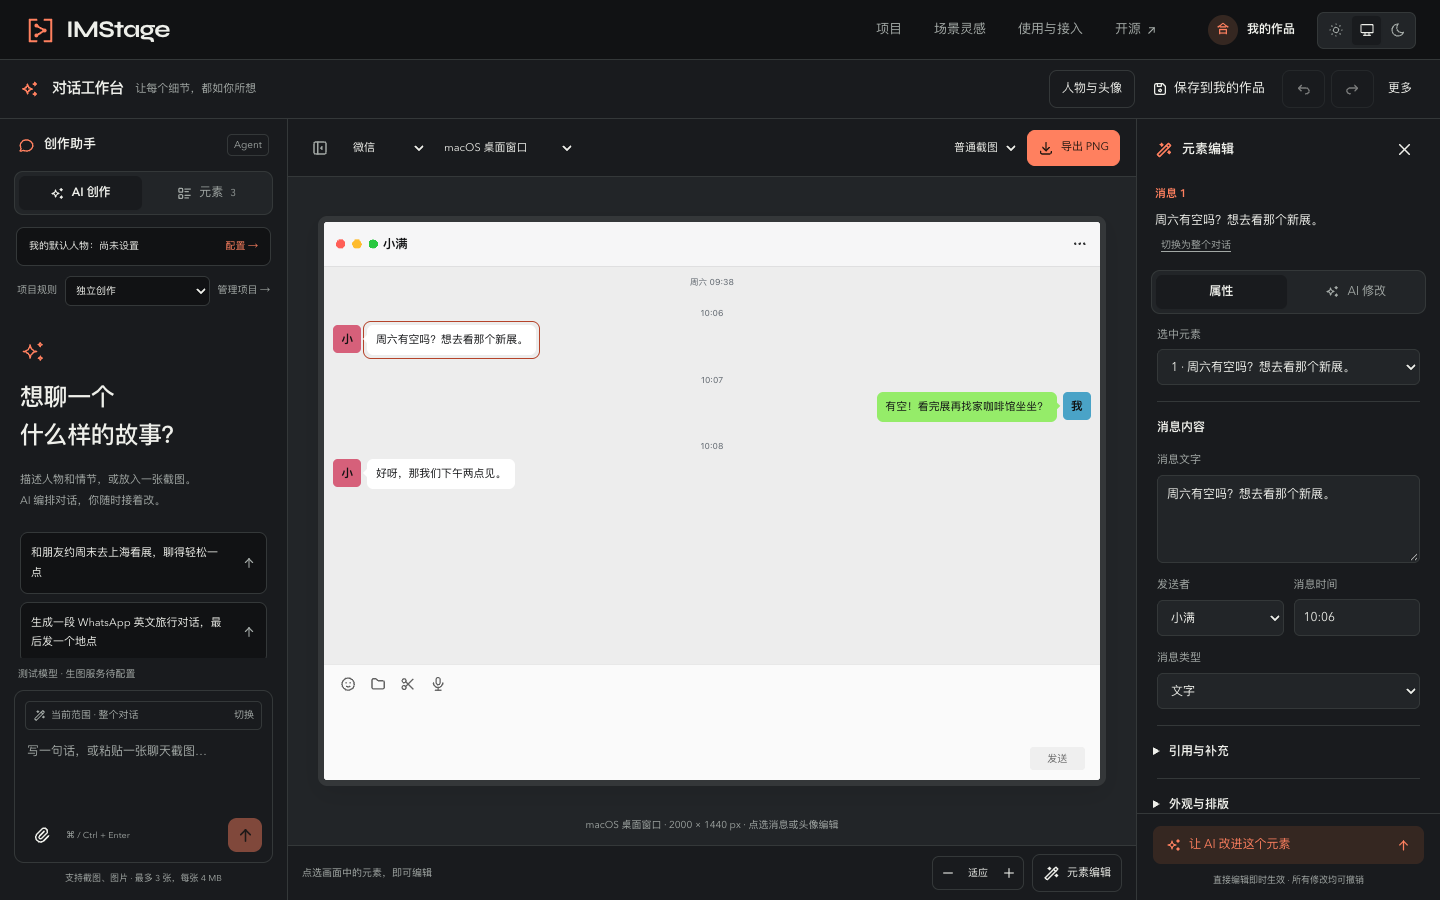
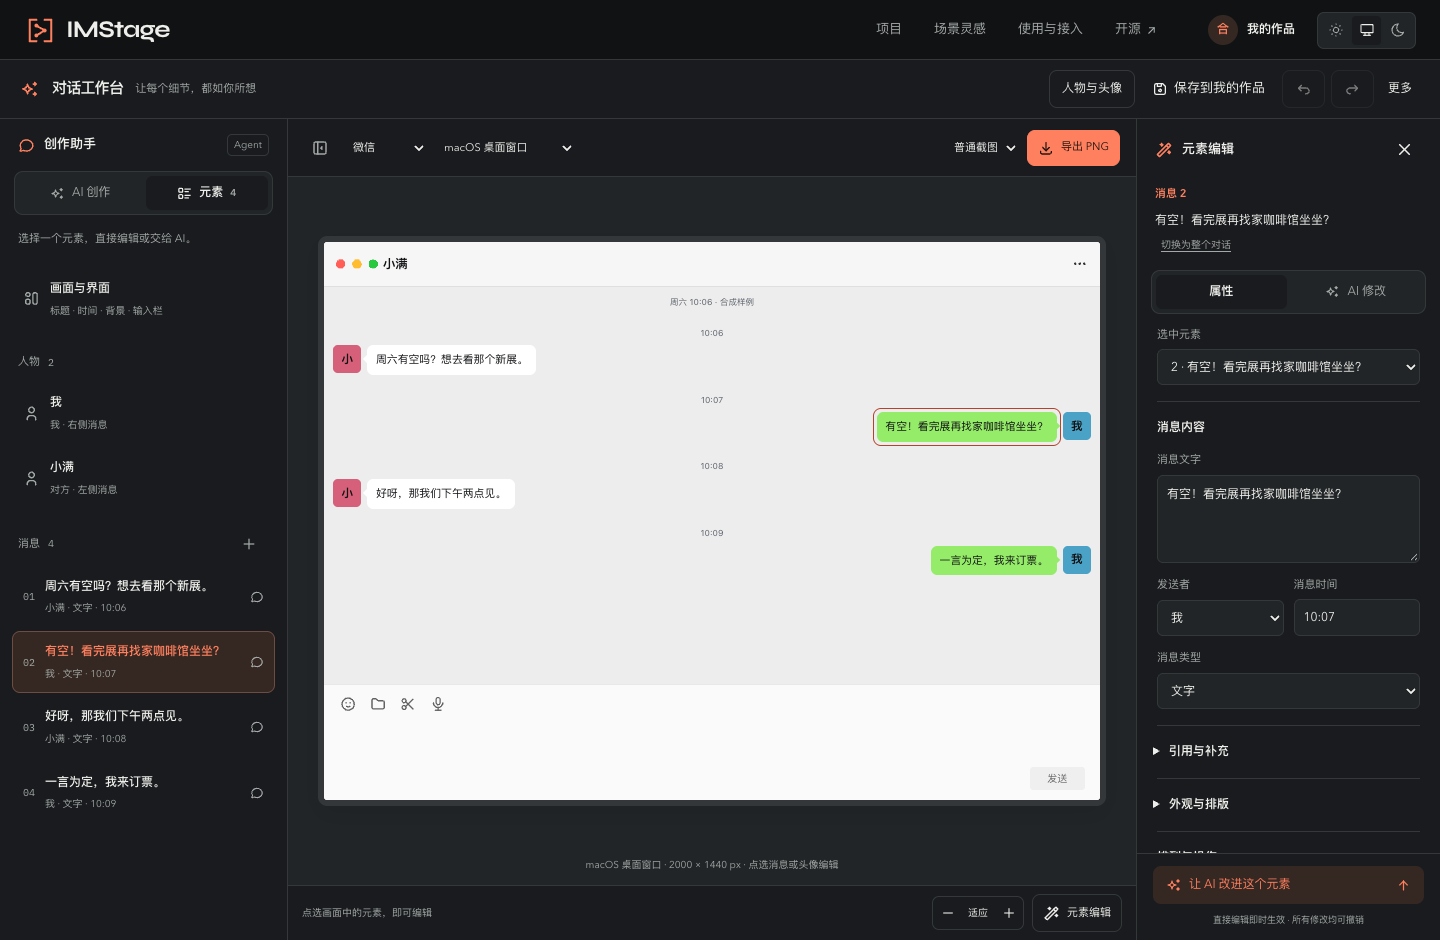
Record verified editor visuals and local AI readback

diff --git a/design/EDITOR-EXPERIENCE.md b/design/EDITOR-EXPERIENCE.md
@@ -25,3 +25,10 @@
 - [ResizeObserver](https://developer.mozilla.org/en-US/docs/Web/API/ResizeObserver)：测量独立视口，避免被缩放的子元素形成尺寸反馈循环。
 
 本轮交付为本机编辑体验升级。截图内的第三方平台外观属于现有项目模板，不新增平台版本保真声明；公网 Vercel 与主分支发布状态另行核验。
+
+## 本机运行读回
+
+- 已将代码提交 `25576c5` 对应的前端构建接入原有本机服务（仅前端静态文件），保留旧资源与旧入口备份，后端进程与数据不变。
+- HTTP 入口 SHA-256 与本轮构建完全一致；真实浏览器读回「对话工作台」「AI 创作 / 元素」「属性 / AI 修改」，页面无横向溢出。
+- 使用现有登录会话和真实 AI 接口，对两条合成消息执行一次 `targetId=probe-one` 修改：目标文字变为「周六要不要一起去美术馆？」，另一条消息逐字段不变，返回 `done`。该探针未创建云端作品或写入人物库。
+- UI 代码位于隔离分支 `codex/editor-experience`，尚未合并主分支或更新公网 Vercel。后续从其他分支重新构建本机前端会替换此静态发布，应先合入本轮改动。
